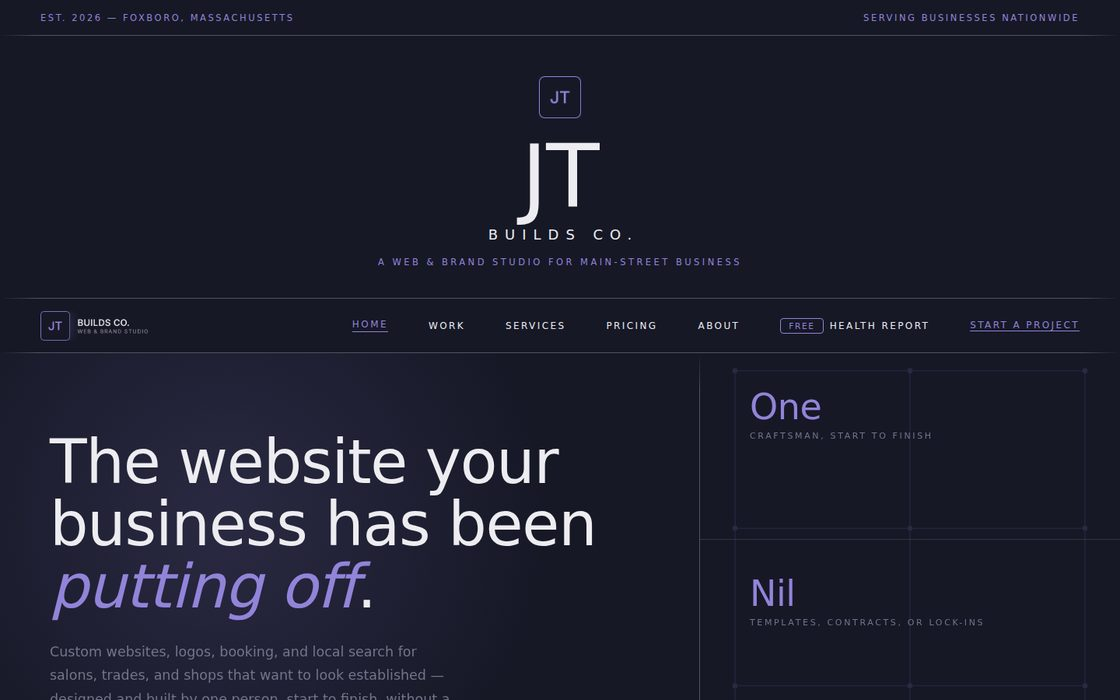
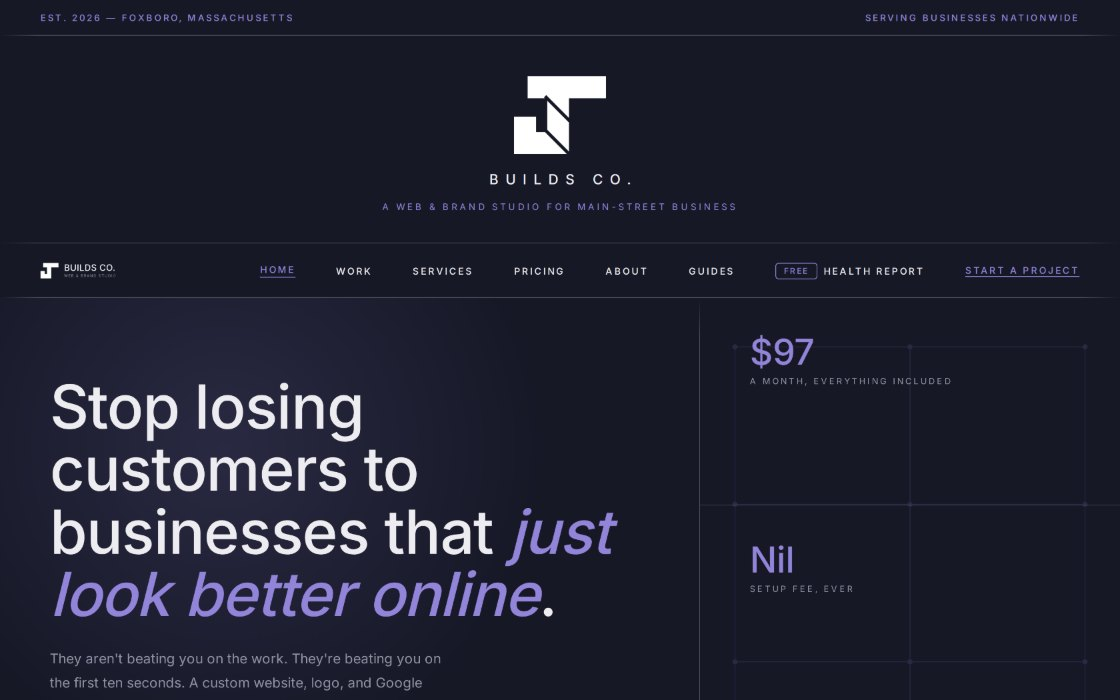
Reshoot the JT Builds Co. thumbnail
The old capture predated three rounds of changes: it showed the retired
rounded-tile logo, the giant "JT" the monogram replaced, the previous
hero, the old One/Nil stat pair, and a nav without Guides. It was the
one project on the page misrepresenting its own site.

Reshot from the current build rather than from production, since the
logo and masthead work on this branch has not been deployed yet — this
is what the page will look like on merge.

Captured with Inter mirrored locally and inlined as data URIs. Chromium
cannot reach Google Fonts through the egress proxy, and serving the
fonts from a second local port fails CORS, so an earlier attempt
silently rendered in a system fallback. Data URIs avoid both. Verified
document.fonts.check for Inter rather than trusting the screenshot.

Alt text on both /work and the homepage now describes what the image
actually shows instead of "its dark editorial homepage design".

Claude-Session: https://claude.ai/code/session_01F65kN795tsBCK4jSg6NT99

diff --git a/index.html b/index.html
@@ -172,7 +172,7 @@
     </article>
     <article class="work-card">
       <div class="work-thumb">
-        <img src="assets/work/jtbuildsco.jpg" alt="The JT Builds Co. website, showing its dark editorial homepage design." width="1120" height="700" loading="lazy">
+        <img src="assets/work/jtbuildsco.jpg" alt="The JT Builds Co. homepage, showing the JT monogram above the headline &quot;Stop losing customers to businesses that just look better online&quot; beside a $97 a month figure." width="1120" height="700" loading="lazy">
       </div>
       <div class="work-body">
         <div class="work-meta">

diff --git a/work.html b/work.html
@@ -130,7 +130,7 @@
     </article>
     <article class="work-card">
       <div class="work-thumb">
-        <img src="assets/work/jtbuildsco.jpg" alt="The JT Builds Co. website, showing its dark editorial homepage design." width="1120" height="700" loading="lazy">
+        <img src="assets/work/jtbuildsco.jpg" alt="The JT Builds Co. homepage, showing the JT monogram above the headline &quot;Stop losing customers to businesses that just look better online&quot; beside a $97 a month figure." width="1120" height="700" loading="lazy">
       </div>
       <div class="work-body">
         <div class="work-meta">
